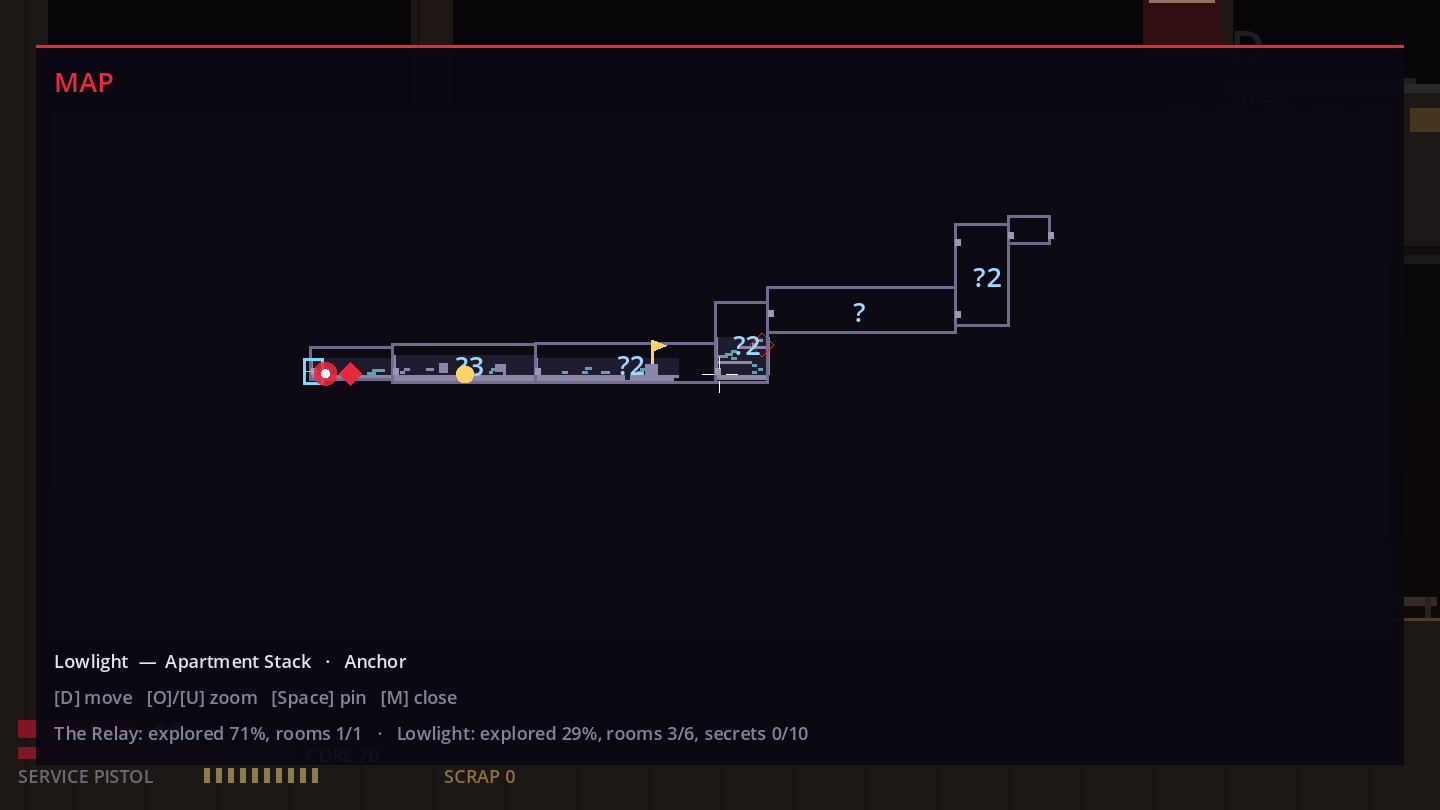
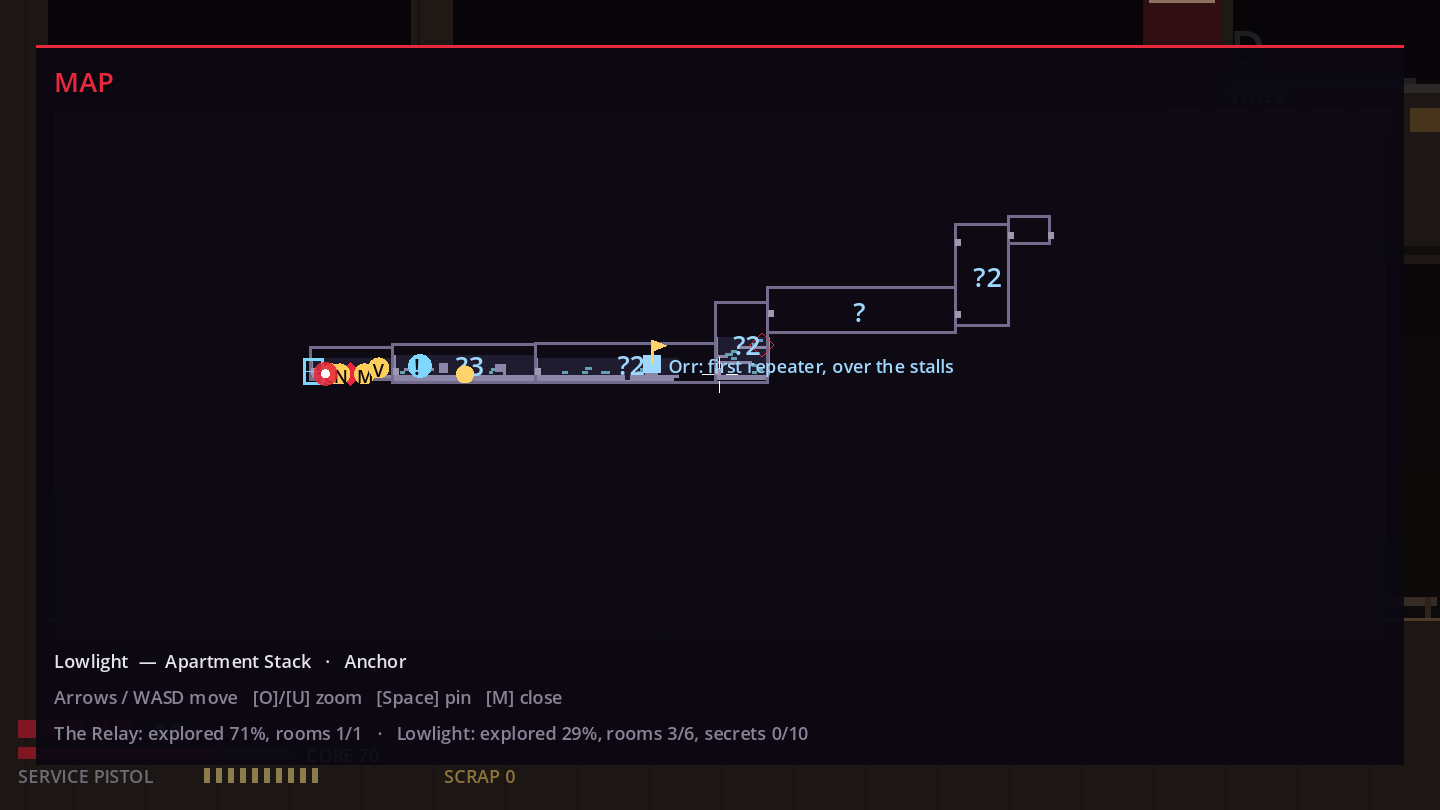
REDLINE docs: M5 world framework report, economy, decisions D-044..D-052
- M5_WORLD_FRAMEWORK_REPORT.md: each M5 item and where it lives, how
  the map stays honest (index from scenes, tested layout), economy
  finding and fix, telemetry, acceptance, what needs a human.
- ECONOMY.md: Scrap sources vs sinks from EconomyAudit, tested targets.
- DECISIONS D-044..D-052 (flagged: M5 before the §44 playtest, transit
  gating, economy targets, View button shared with lab reset).
- CHANGELOG 0.5.0-m5, TODO, KNOWN_ISSUES K-35..K-39, README, CLAUDE.md,
  version bump; refreshed map/Relay screenshots.

Claude-Session: https://claude.ai/code/session_01KKEUHJeU6Cak2JeFzXhYTN

Changed region(s): [[0.0312, 0.8333, 0.375, 0.8951], [0.4375, 0.4321, 0.6562, 0.463], [0.2188, 0.4321, 0.3125, 0.4938]]

diff --git a/redline/Docs/M5_WORLD_FRAMEWORK_REPORT.md b/redline/Docs/M5_WORLD_FRAMEWORK_REPORT.md
@@ -1,0 +1,69 @@
+# M5 World Framework Report
+
+**Status:** the M5 framework (bible §36 M5) is built and tested: map, fast travel, quests, NPC state, shops, economy, journal, collectibles and save migration. It runs on the existing Lowlight slice plus one new NPC (Nix). **Flag:** M5 was started, at your request, before the M4/§44 human playtest (D-044). Nothing from M6 onward has been started.
+
+| | |
+|---|---|
+| Bible §36 M5 | "Map, fast travel, quests, NPC state, shops, economy, journal, collectibles and save migration." |
+| New controls | **Map: M / pad View.** In the map: move = pan, O/U (RB/LB) = zoom, Space (A) = pin, M or back = close |
+| Tests | 166 automated (20 new in M5) |
+
+![Map](media/m5_map.png)
+![Map zoomed out](media/m5_map_overview.png)
+![Nix in the Relay](media/m5_relay_nix.png)
+
+---
+
+## 1. What each M5 item is
+
+| M5 item | What exists now | Bible |
+|---|---|---|
+| **Map** | Fog of discovery per 64 px cell; room outlines once visited or once Nix's base map is bought; detail only where you've been. Icons: Anchors (filled = on the transit network), NPC pins, discovered bosses (crossed out when beaten), unresolved gates and ability gates, quest map notes, player pins (12), the dropped Scrap cache, transit lines, Rook. District completion (explored %, rooms, secrets). | §20 |
+| **Fast travel** | Nix sells a **transit pass**. After that, every Anchor you've rested at is a destination from any other Anchor's menu. Arriving counts as resting there. | §7, §13 |
+| **Quests** | Still derived from flags. New: reward flags, map notes per stage, and a second quest, **Chart Lowlight** (explore 70% of Lowlight, report to Nix; 100 Scrap + the Surveyor's lens). Fixed a double payout. | §19 |
+| **NPC state** | Talk counts per NPC (`talks_<id>`). Dialogue rules take conditions such as `atleast:talks_nix:4`, `ability:dash` and `collected:<id>`. **World consequences:** the Relay gets a restored radio mast after Dead Air, Krail's banner after the boss, and Nix's city map after the survey (`WorldStateSwitch`). | §13, §19 |
+| **Shops** | Nix, the cartographer, joins Mara and Vell: base map 40, transit 60, lens 90. | §13 |
+| **Economy** | `EconomyAudit` computes sources against sinks from the data, with tested targets. Secrets now pay (see below). | §12 |
+| **Journal** | Adds district completion. Quests, memories and stats were already there. | §20 |
+| **Collectibles** | Scrap stashes inside secret spots. The Surveyor's lens shows *that* a room still hides something, never *where*. | §20, §21 |
+| **Save migration** | Schema **v3**: explored-cell bitsets (base64), pins, Anchors rested. v2 → v3 migration: old saves keep their room outlines, and their respawn Anchor joins the transit network. | §29 |
+
+## 2. How the map stays honest
+- **No hand-kept icon lists:** `WorldMapIndex` reads Anchors, NPCs, gates, exits, secrets, bosses and markers straight from the room scenes. Move an Anchor and the map follows.
+- **Layout is data** (`data/world/world_map.tres`: one offset per room). A test proves that every exit lands on its target's entrance on the map; I checked the test by deliberately misaligning a room. Another test checks that rooms don't overlap. Lifts are declared as transit links and drawn dashed.
+- **The map rewards exploring rather than replacing it** (bible §20): buying the base map shows outlines only; geometry, Anchors and gate symbols appear only in cells you've actually explored.
+
+## 3. Economy (details in [`ECONOMY.md`](ECONOMY.md))
+- **Finding:** a thorough first run earned 546 Scrap against 1,570 of shop stock, so **35%** was affordable, because secrets paid nothing.
+- **Fix:** breakable walls now hold Scrap, and four secret spots carry stashes, giving 926 Scrap, which is **59%** of the stock.
+- **Tested:**
+  - a first run covers 45–85% of the stock;
+  - the essentials (base map and transit, 100 Scrap) are affordable early;
+  - a full enemy re-clear pays at most 15% of the stock (enemies respawn, so farming is possible but slow).
+
+## 4. Telemetry (M4 tie-in)
+The playtest recorder now logs map opens, pin changes and fast travel. The report adds "map opened, by room". Many opens in one room suggest players aren't sure where to go.
+
+## 5. Acceptance vs the bible (M5)
+
+| Item | Status | Evidence |
+|---|---|---|
+| Map with fog, pins, vendor pins, Anchors, transit, bosses, gate symbols, secret hints, completion stats | ✅ | `test_world_map` (11 tests), captures |
+| Fast travel | ✅ | `test_transit_between_rested_anchors` (travels and arrives at the Anchor) |
+| Quests | ✅ | Chart Lowlight flow, reward flags, map notes; double-payout fix |
+| NPC state | ✅ | Talk counts, condition rules, world-state switches |
+| Shops / economy | ✅ | Nix's shop; `test_economy` targets |
+| Journal / collectibles | ✅ | Completion line; stashes; lens hints |
+| Save migration | ✅ | v3 round trip through JSON; v2 → v3 migration test |
+
+## 6. Needs a human
+- **Map readability and controls** on a real screen and controller: pan speed, default zoom, icon legibility.
+- Whether transit should need a pass at all, or come free with the first Anchor (D-047).
+- Economy numbers: whether 59% feels generous or stingy (D-049). The M4 report's purchases table will show it.
+- **Still open from M4:** the §44 slice playtest itself. The M5 features are recorded too, so one round covers both.
+
+## 7. Known issues
+See `KNOWN_ISSUES.md` K-35 to K-39. The main ones:
+- The map redraws every visible cell every frame. That's fine at 7 rooms, but it should be cached once there are many districts.
+- Transit starts only from Anchor menus, not from the map.
+- The room layouts were produced with a generator script that isn't in the repo (the `.tscn` files are the source of truth, editable in Godot). M6's content pipeline should add real room tooling.

diff --git a/redline/Docs/DECISIONS.md b/redline/Docs/DECISIONS.md
@@ -201,3 +201,43 @@ These are standard in the genre and support pillars §2.1 and §2.2. Each can be
 ## D-043: Damage carries its source
 - `PlayerCombat.take_damage()` gets a `source` string ("needle/needle_stab", "hazard", "pit", "burnout"), kept as `last_damage_source`. Telemetry reads it on `player_damaged` and `player_died`. No new coupling: combat doesn't know telemetry exists.
 
+---
+
+# M5: World Framework
+
+## D-044: M5 started before the §44 playtest (FLAG: process)
+- Bible §44 says not to scale production before external playtesters pass the slice. You asked for M5 while the M4 playtest is still pending.
+- **Decision:** build the M5 *framework* (systems) on top of the existing slice, and add only what it needs to be exercised: one NPC (Nix), one quest, set dressing and Scrap stashes. No new rooms or districts. The playtest kit covers the new systems, so one round tests both.
+
+## D-045: The map is data plus the room scenes themselves
+- `data/world/world_map.tres` holds one offset per room. Everything drawn comes from the room scenes via `WorldMapIndex`. Tests prove exits and entries meet on the map and rooms don't overlap. Lifts are declared transit links.
+- This fits M6 (content pipeline): a new room only needs an offset.
+
+## D-046: Fog of discovery rules
+- 64 px cells, revealed within 112 px of Rook. Outlines are known once a room is visited or its district's base map is owned. Geometry and Anchor/gate icons appear only in explored cells. NPC and boss pins appear once the room is visited.
+- This follows bible §20: "Nix provides base maps; exploration fills detail."
+
+## D-047: Transit needs Nix's pass and starts at Anchors (FLAG, low)
+- Bible §7 says Anchors "later [permit] fast travel", and §13 gives Nix "transit". Transit costs a 60-Scrap pass. It goes from any Anchor menu to any Anchor you've rested at, and arriving counts as resting there (it sets the respawn point).
+- **Open question:** free with the first Anchor instead? Also allow travelling from the map?
+
+## D-048: Secret hints show a count per room, never a position
+- The Surveyor's lens (Nix, or the Chart Lowlight reward) draws "?n" at the centre of each room that still hides n secrets. Bible §20: "indicate that something remains undiscovered without giving exact coordinates."
+
+## D-049: Economy targets (FLAG: numbers)
+- These are tested in `test_economy`:
+  - a thorough first run covers 45–85% of all stock (currently 59%);
+  - the essentials are affordable early;
+  - a full re-clear of respawning enemies pays at most 15% of stock.
+- To reach this, walls and secret spots now hold Scrap, instead of prices being cut. See `ECONOMY.md`.
+
+## D-050: NPC state = talk counts + conditions; world state = switches
+- `talks_<npc>` counts conversations. Dialogue rules accept `Game.check_condition` expressions (`atleast:`, `ability:`, `collected:`, `flag:`, `!`). `WorldStateSwitch` shows set dressing by condition, so the Relay visibly changes with progress (bible §13).
+- Relationship values, choices and branching arcs belong to M8 (narrative).
+
+## D-051: The map shares the pad View button with the lab reset (FLAG, low)
+- The `map` action is M / pad View. In the labs, View also resets; the map opens only in world rooms, so they never both fire in one place. Keyboard and controller parity holds (`test_input_map`).
+
+## D-052: New folders `world/map/` and `ui/map/` (low risk)
+- The bible's §31 layout has no map folder. Map data and logic live in `world/map/` (with the rooms), and drawing lives in `ui/map/`.
+

diff --git a/redline/README.md b/redline/README.md
@@ -4,7 +4,7 @@ A high-speed 2D pixel-art action platformer set in the megacity of Veyra, built 
 **Movement is life. Violence buys time. Curiosity reveals the truth.**
 
 - Design source of truth: [`Docs/DESIGN_BIBLE.md`](Docs/DESIGN_BIBLE.md)
-- Current milestone: **M4 Validation**. The playtest tooling is built; the playtest itself needs external testers: see [`Docs/PLAYTEST_KIT.md`](Docs/PLAYTEST_KIT.md) and [`Docs/M4_VALIDATION_REPORT.md`](Docs/M4_VALIDATION_REPORT.md). The slice being tested: [`Docs/M3_VERTICAL_SLICE_REPORT.md`](Docs/M3_VERTICAL_SLICE_REPORT.md), [`Docs/M2_COMBAT_REPORT.md`](Docs/M2_COMBAT_REPORT.md) and [`Docs/M1_MOVEMENT_REPORT.md`](Docs/M1_MOVEMENT_REPORT.md).
+- Current milestone: **M5 World Framework** ([`Docs/M5_WORLD_FRAMEWORK_REPORT.md`](Docs/M5_WORLD_FRAMEWORK_REPORT.md), [`ECONOMY`](Docs/ECONOMY.md)): map, transit, Nix, NPC/world state, economy audit. **M4 Validation:** the playtest tooling is built; the playtest itself needs external testers: see [`Docs/PLAYTEST_KIT.md`](Docs/PLAYTEST_KIT.md) and [`Docs/M4_VALIDATION_REPORT.md`](Docs/M4_VALIDATION_REPORT.md). The slice being tested: [`Docs/M3_VERTICAL_SLICE_REPORT.md`](Docs/M3_VERTICAL_SLICE_REPORT.md), [`Docs/M2_COMBAT_REPORT.md`](Docs/M2_COMBAT_REPORT.md) and [`Docs/M1_MOVEMENT_REPORT.md`](Docs/M1_MOVEMENT_REPORT.md).
 - **All art and audio are placeholders** (D-026). Final assets must follow [`Docs/ART_BIBLE.md`](Docs/ART_BIBLE.md).
 - Project logs: [`DECISIONS`](Docs/DECISIONS.md) · [`CHANGELOG`](Docs/CHANGELOG.md) · [`TODO`](Docs/TODO.md) · [`KNOWN_ISSUES`](Docs/KNOWN_ISSUES.md) · [`CIRCUITS`](Docs/CIRCUITS.md)
 
@@ -45,12 +45,12 @@ audio/       MusicSynth (procedural stems)
 playtest/    PlaytestSession, PlaytestConfig, PlaytestVariant, SurveyQuestion, PlaytestAnalyzer (M4)
 player/      controller/ (Player, config, input, FSM), states/, combat/, reactor/, style/, animation/, abilities/
 enemies/     base/ (Enemy, EnemyData, EnemyBehavior, EncounterDirector), behaviors/, variants/*.tscn
-world/       rooms/ (Room, labs, lowlight/*.tscn), anchors/, transitions/, districts/, props/, hazards/, camera/, graybox/
-data/        movement/, camera/, weapons/, enemies/, combat/, reactor/, style/, audio/, circuits/, shops/, npcs/, quests/, lore/, districts/, playtest/, catalog.tres
-ui/          debug/ (overlay, tuning panel), hud/, menus/, dialogue/
+world/       rooms/ (Room, labs, lowlight/*.tscn), map/ (world map data, fog, index), anchors/, transitions/, districts/, props/, hazards/, camera/, graybox/
+data/        movement/, camera/, weapons/, enemies/, combat/, reactor/, style/, audio/, circuits/, shops/, npcs/, quests/, lore/, districts/, playtest/, world/, catalog.tres
+ui/          debug/ (overlay, tuning panel), hud/, menus/, dialogue/, map/
 vfx/         dust, hit sparks, slash arcs
 tests/       TestRunner + unit/test_*.gd + fixtures/
 devtools/    lab controllers, movement probe, perf probe, capture tour, route bot
-Docs/        bible, Art Bible, M1–M4 reports, playtest kit, Circuits, decision/changelog/todo/issue logs
+Docs/        bible, Art Bible, M1–M5 reports, playtest kit, Circuits, Economy, decision/changelog/todo/issue logs
 ```
 Folders from the bible's architecture that later milestones will fill are kept with `.gitkeep`.

diff --git a/redline/CLAUDE.md b/redline/CLAUDE.md
@@ -9,7 +9,7 @@
   - Keep keyboard and controller parity.
   - Commit in small logical units.
   - Flag conflicts with the bible in `Docs/DECISIONS.md` instead of silently changing the design.
-- Current state: M0–M3 are done; M4 (validation) tooling is done and **waiting for a human playtest** (`Docs/PLAYTEST_KIT.md`). When session files or a report come back, the next step is data-driven changes per failing §44 line (flag each in DECISIONS). **Do not start M5 or later unless the user asks.**
+- Current state: M0–M3 and M5 (world framework) are done; M4 (validation) tooling is done and **waiting for a human playtest** (`Docs/PLAYTEST_KIT.md`). When session files or a report come back, the next step is data-driven changes per failing §44 line (flag each in DECISIONS). **Do not start M6 or later unless the user asks.**
 - Art and audio are procedural placeholders (D-026). Don't mass-produce final assets; anything final must follow `Docs/ART_BIBLE.md`.
 - Keep `Docs/DECISIONS.md`, `CHANGELOG.md`, `TODO.md` and `KNOWN_ISSUES.md` up to date.
 
@@ -39,3 +39,4 @@ godot --headless res://devtools/PlaytestReport.tscn -- --in=/abs/sessions --out=
 - **Rooms:** after any layout change to `world/rooms/lowlight/*.tscn`, update the `RouteBot` steps in `tests/unit/test_slice_routes.gd` and run the `slice_routes` and `slice_world` tests. Level metrics: a jump rises 56.4 px (use ≤ 48 px steps), and a run-jump spans about 100 px centre to centre. A node name duplicated in a `.tscn` leaks bodies.
 - **Pitfall:** a `preload()`ed const's typed-property assignment can fail to parse in 4.3; `load()` at runtime instead.
 - **Playtest (M4):** `autoload/Playtest.gd` only listens to EventBus; gameplay must never depend on it. New things worth measuring get an explicit EventBus signal and a recorder handler, then a line in `PlaytestAnalyzer`. Experiments are `PlaytestVariant` data applied to a copy. Headless runs never record unless a test sets `Playtest.allow_headless` and a temp `Playtest.dir`. Recording is local only; never add networking.
+- **Map (M5):** a new room needs an entry in `data/world/world_map.tres` (offset so its exits meet neighbours; `test_world_map` checks). Map icons come from the room scene itself (`WorldMapIndex`); use `MapMarker` only for things no node implies (ability gates). World consequences use `WorldStateSwitch` + `Game.check_condition`. Run `--filter=economy` after changing any price or drop.

diff --git a/redline/Docs/ECONOMY.md b/redline/Docs/ECONOMY.md
@@ -1,0 +1,45 @@
+# REDLINE Economy (M5)
+
+Bible §12: "Scrap (common), Core Shards (major upgrades), Memory Fragments (story/endings), Mastery Tokens (challenges). **Avoid currency bloat.**" The slice uses Scrap, Core Shards and Memory Fragments. Mastery Tokens wait for challenges (M9).
+
+All numbers below come from `progression/EconomyAudit.gd`, which reads the room scenes and data, so they can't drift. `tests/unit/test_economy.gd` enforces the targets.
+
+## Scrap: sources (one thorough first run)
+
+| Source | Scrap |
+|---|---|
+| Enemies, each placed enemy killed once (29) | 176 |
+| Warden Krail | 150 |
+| Quest rewards (Dead Air 120, Chart Lowlight 100) | 220 |
+| Breakable-wall stashes (4 secrets) | 200 |
+| Scrap stashes in secret spots (4) | 180 |
+| **Total** | **926** |
+
+Scavenger (+50% Scrap) raises everything that drops as pickups.
+
+## Scrap: sinks (all shop stock at list price)
+
+| Shop | Stock |
+|---|---|
+| Vell: 10 Circuits (Emergency Loop after Dead Air) | 850 |
+| Mara: Split Katars 150, Heavy Revolver 180, Spare Injector 200 | 530 |
+| Nix: Lowlight base map 40, Transit pass 60, Surveyor's lens 90 | 190 |
+| **Total** | **1,570** |
+
+## Targets (tested)
+
+| Rule | Target | Now |
+|---|---|---|
+| A thorough first run affords a real share of the stock, but not all of it, so purchases are choices | 45–85% | **59%** |
+| The essentials (Nix's base map + transit pass, 100 Scrap) are affordable from early income | ≥ 100 from enemies and stashes | 356 |
+| Enemies respawn on every room visit, so farming exists but exploring pays better: one full re-clear | ≤ 15% of stock (235) | 176 |
+
+**M5 finding:** before this pass, a first run covered only **35%** of the stock (546 Scrap), because secrets paid nothing. Walls now hold Scrap, and four secret spots carry stashes. Stashes are the loot inside secrets and don't count as extra secrets.
+
+## Other currencies
+- **Core Shards** (3): each adds +1 Circuit capacity (4 → 7). Never sold.
+- **Memory Fragments** (3): story and lore only. Never spent.
+- **Death:** unbanked Scrap drops as one recoverable cache (bible §7, D-031). Settings can turn loss off.
+
+## Changing prices
+Prices live in `data/circuits/*.tres` (`price`) and `data/shops/*.tres` (`ShopItem.price`), and drops in `data/enemies/*.tres` (`scrap_drop`). After any change, run `--filter=economy`. The test prints the full breakdown.

diff --git a/redline/Docs/CHANGELOG.md b/redline/Docs/CHANGELOG.md
@@ -1,5 +1,43 @@
 # REDLINE Changelog
 
+## 0.5.0-m5: World Framework
+
+Bible §36 M5, built on the existing slice (D-044). Report: `M5_WORLD_FRAMEWORK_REPORT.md`. Economy: `ECONOMY.md`.
+
+### Map (bible §20)
+- `world/map/`: WorldMapData (room offsets, transit links, rules), WorldMapIndex (reads rooms), MapProgress (fog cells), MapMarker.
+- Map screen (M / pad View, or the pause menu):
+  - fog;
+  - outlines from visits or the base map;
+  - Anchors, NPC pins, bosses, gates, ability gates;
+  - quest notes, pins, the dropped cache, transit lines;
+  - district completion;
+  - pan, zoom and pin.
+
+### World
+- **Nix, the cartographer:** base map, transit pass, Surveyor's lens.
+- **Chart Lowlight** quest. Dead Air gets map notes.
+- **Transit** between rested Anchors, from the Anchor menu.
+- **NPC state:** talk counts, and condition rules in dialogue.
+- **WorldStateSwitch:** the Relay gains a radio mast, Krail's banner and Nix's city map as you progress.
+- The journal shows district completion.
+
+### Economy
+- `EconomyAudit` and `test_economy`.
+- Walls and four secret spots now hold Scrap, raising first-run coverage from 35% to 59%.
+
+### Save
+- Schema v3: explored bitsets, pins and Anchors rested, with a v2 → v3 migration.
+
+### Telemetry
+- Map opens, pins and fast travel are recorded. The report shows map opens per room.
+
+### Fixed
+- Quest rewards that set flags re-entered completion and paid out twice.
+
+### Tests
+- 166 (20 new).
+
 ## 0.4.0-m4: Validation tooling (awaiting the human playtest)
 
 Bible §36 M4 instrumentation. The playtest itself needs external testers (D-038). Report: `M4_VALIDATION_REPORT.md`. Kit: `PLAYTEST_KIT.md`.

diff --git a/redline/Docs/KNOWN_ISSUES.md b/redline/Docs/KNOWN_ISSUES.md
@@ -36,4 +36,9 @@
 | K-32 | Playtest | The first frames after a room load include one-off loading spikes (e.g. one 55 ms frame entering the Warden Tower in a bot run). | Low | Repeated spikes are the problem; singles on entry are expected. |
 | K-33 | Playtest | A crash keeps the session up to the last autosave (every 20 s, and on every death). | Info | `autosave_interval` in `PlaytestConfig`. |
 | K-34 | Playtest | No exported build is committed: `export_presets.cfg` stays gitignored, and export templates must be installed in the editor. | Info | Steps in `PLAYTEST_KIT.md` §2. |
+| K-35 | Map | The map redraws every explored cell and geometry piece each frame. Fine for 7 rooms; with many districts it should be cached. | Low | TODO. |
+| K-36 | Map | The cursor pans freely; it doesn't snap to rooms or icons. At the widest zoom, small icons overlap. | Low | Human check. |
+| K-37 | Map | The labs have no map (the map is world rooms only). | Info | By design. |
+| K-38 | Transit | Travel starts only from an Anchor menu, not from the map (D-047). | Low | Design call. |
+| K-39 | Tools | The slice's room `.tscn` files were produced by a Python generator that isn't committed. The scenes are the source of truth and editable in Godot, but bulk layout edits are manual until M6 tooling. | Medium | M6 content pipeline. |
 

diff --git a/redline/Docs/TODO.md b/redline/Docs/TODO.md
@@ -1,6 +1,16 @@
 # REDLINE TODO
 
-## Now: run the M4 playtest (humans)
+## Now: humans (M4 playtest now also covers M5)
+- [ ] Run the playtest (`PLAYTEST_KIT.md`). Also watch whether testers open the map, where, and whether pins and transit get used.
+- [ ] Confirm or overrule D-044 (M5 before §44), D-047 (transit gating), D-049 (economy targets) and D-051 (View button).
+
+## M5 follow-ups
+- [ ] Cache the map drawing into a texture once there are many districts (K-35).
+- [ ] Travel from the map screen, if D-047 says so.
+- [ ] Commit real room-authoring tooling in M6. The slice rooms were made with an uncommitted generator (K-39).
+- [ ] Saved Circuit loadout presets (bible §11), once there are more Circuits.
+
+## M4 playtest (humans)
 - [ ] Recruit 5–8 external testers (2+ on a controller, 1+ non-dev machine) and run sessions as described in `PLAYTEST_KIT.md`.
 - [ ] Collect the `session_*.json` files and note sheets, then run `devtools/PlaytestReport.tscn`.
 - [ ] Confirm or overrule D-038 to D-041 (especially D-039 recording default and D-041 §44 thresholds).
